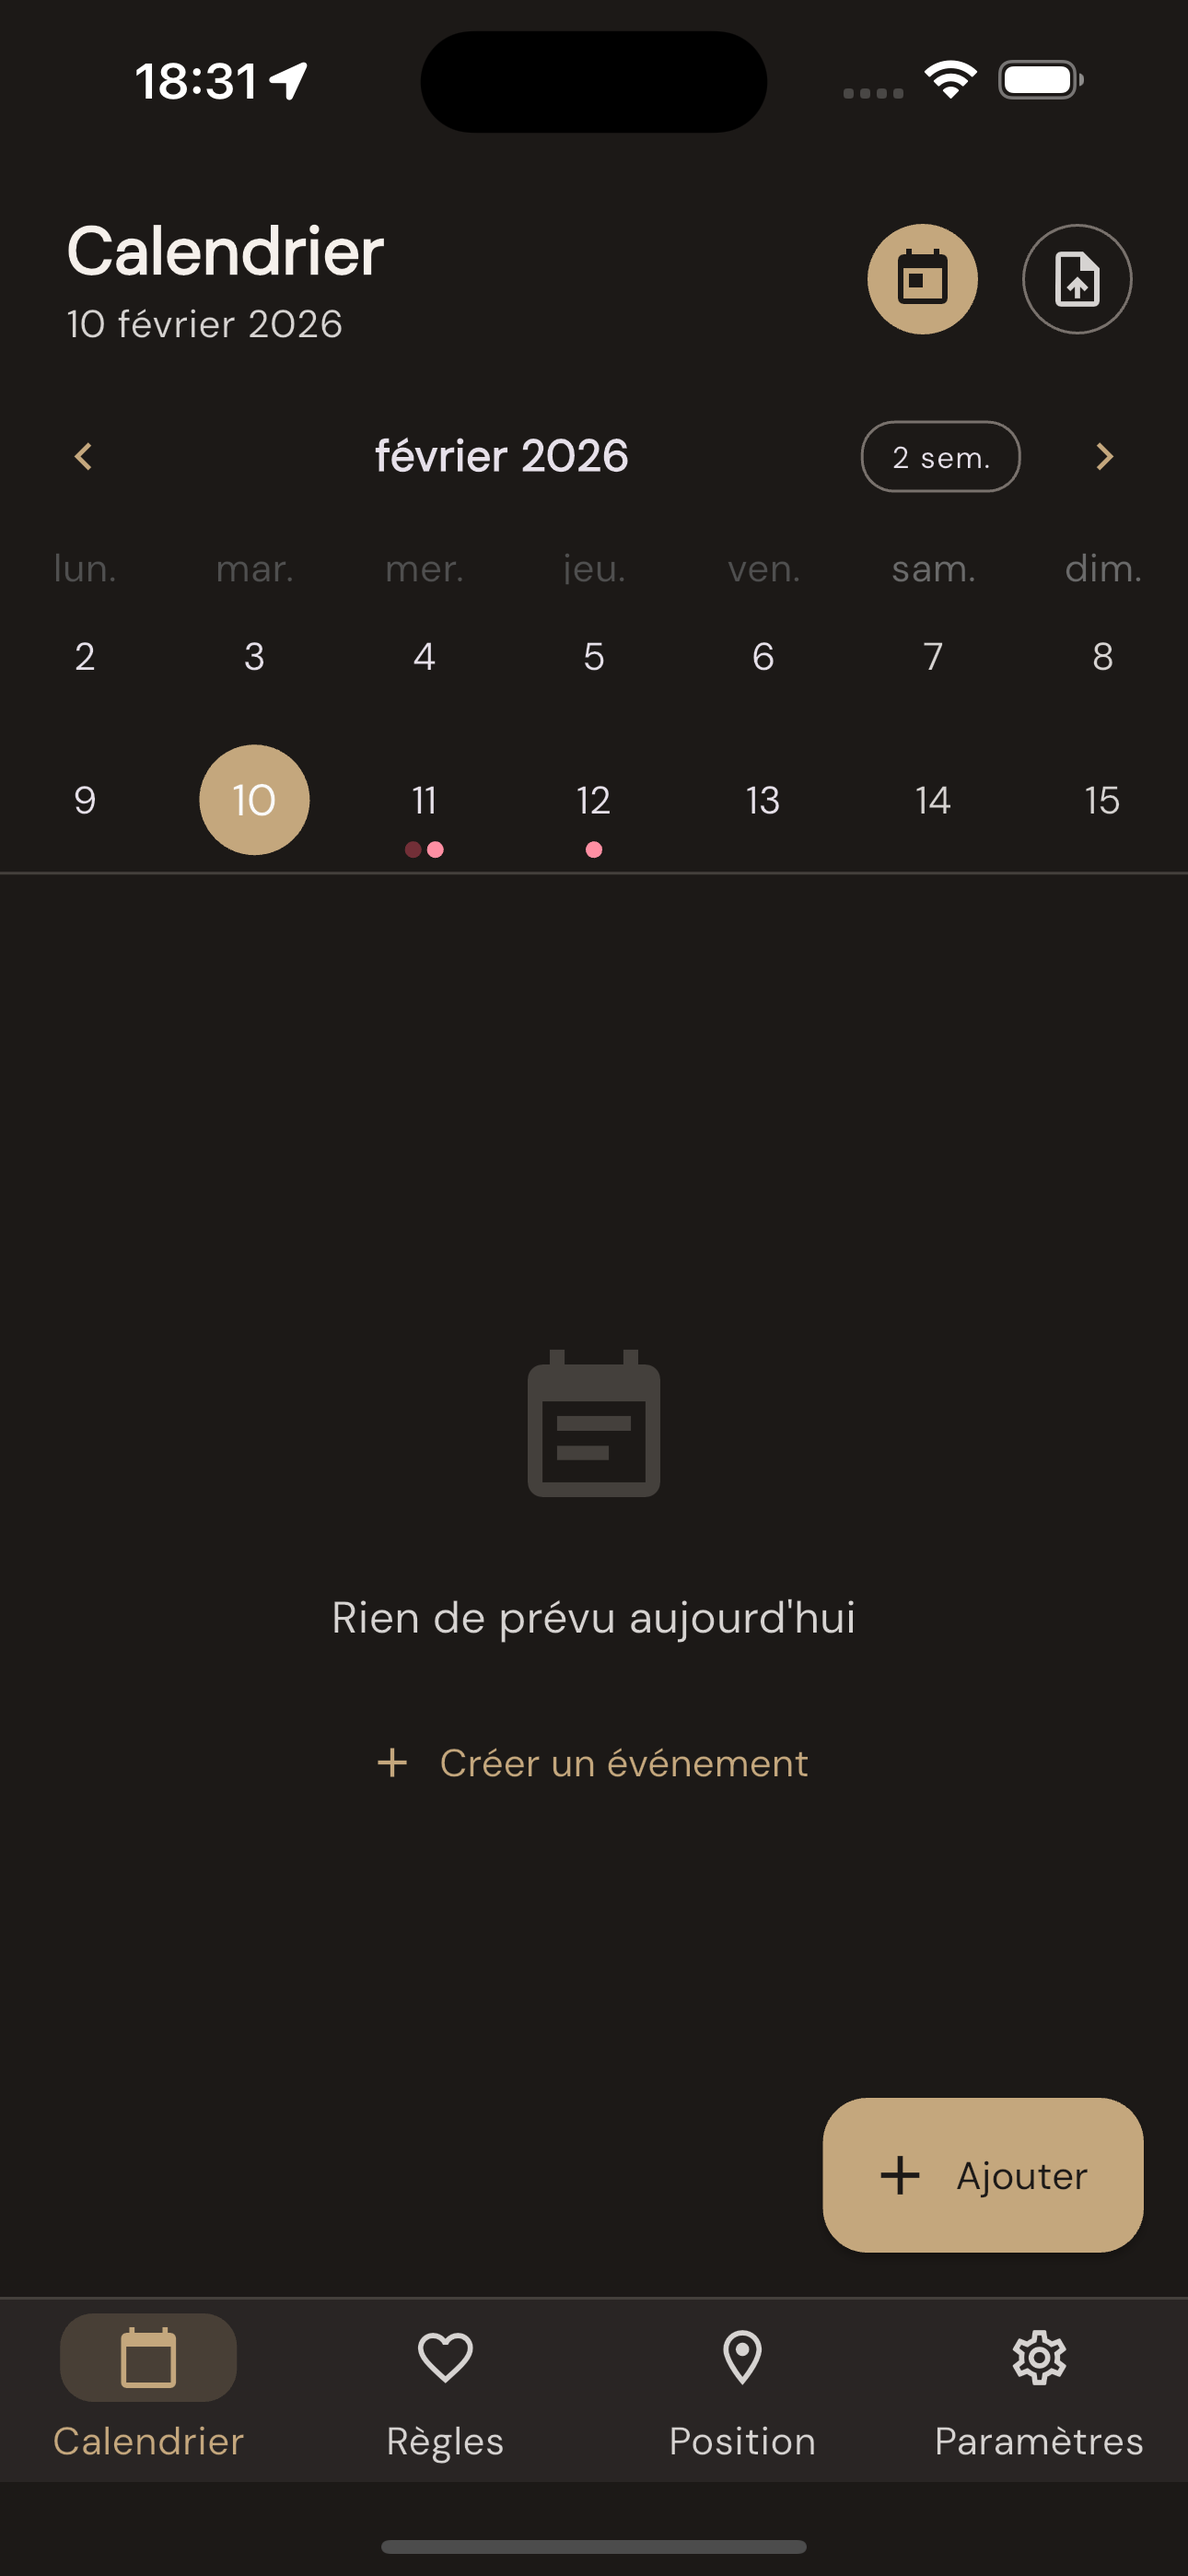
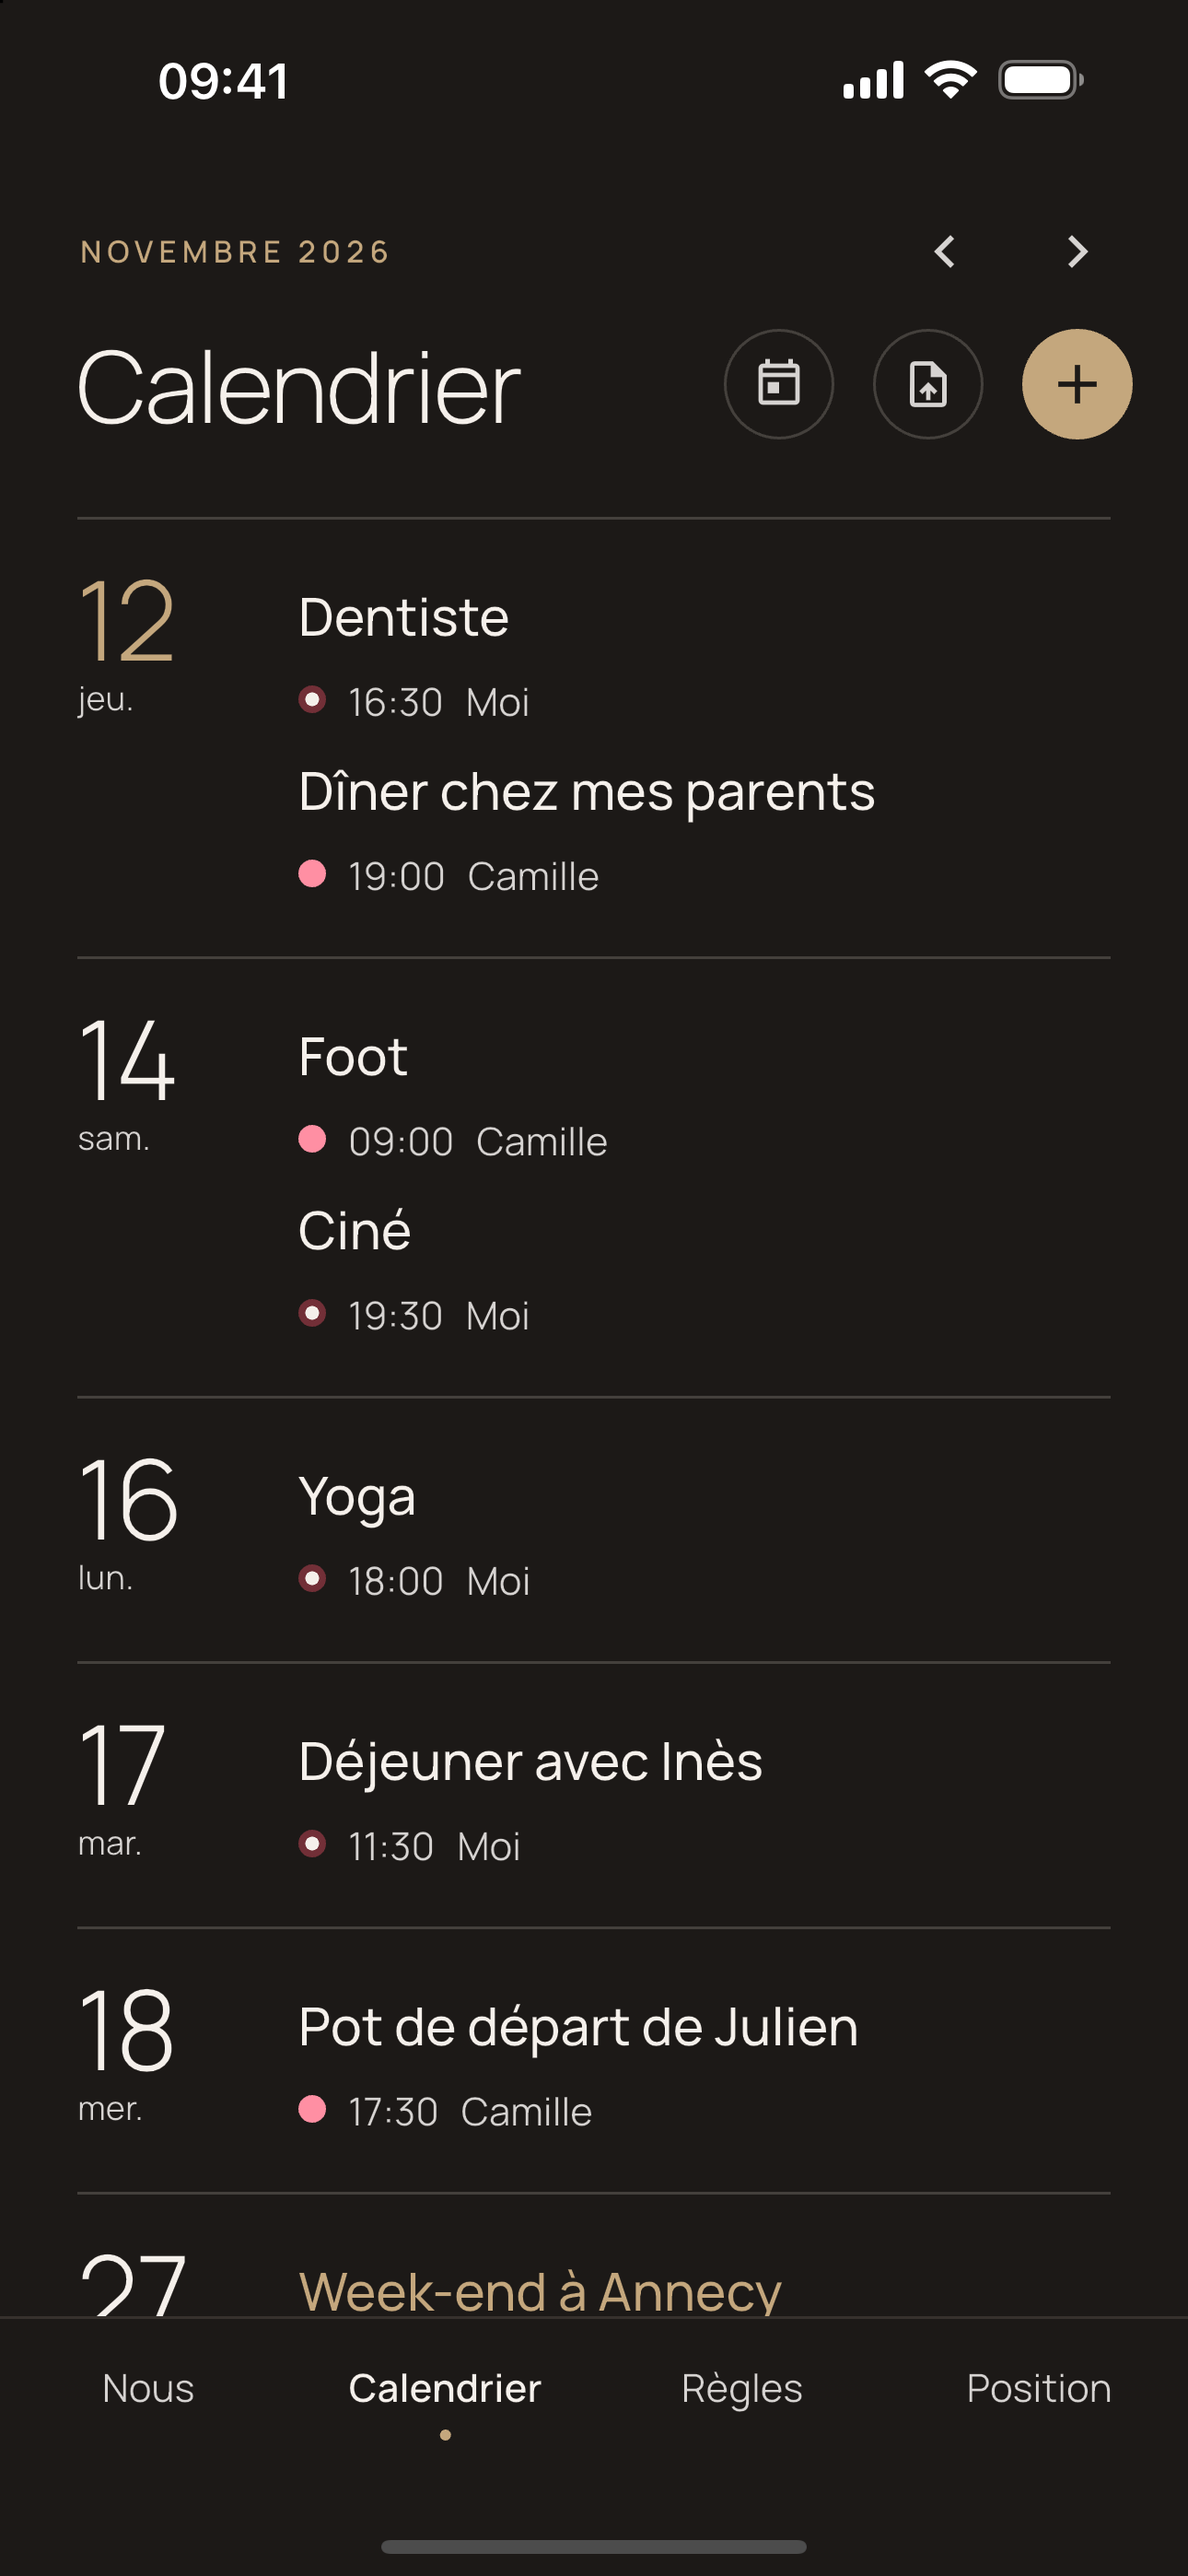
feat(site): new app screenshots from the redesigned app
Eight simulator captures of an invented couple (Alex and Camille, in
Lyon), taken on the local copy of the backend: shared calendar, each
person's calendar for the merge section, cycle, position, Nous tab, a
received note and a shared list. They replace the February captures of
the old design.

- Each rail item now shows its own screen (notes and lists showed
  Settings and the guide).
- The merge section shows both calendars before they merge; the
  partner-phone description says so in FR and EN.
- The portfolio video page points at the new files.
- The screenshots README lists what each file shows and where it's used.

diff --git a/website/components/home/MergeChapter.tsx b/website/components/home/MergeChapter.tsx
@@ -31,13 +31,13 @@ export default function MergeChapter({ dict }: { dict: Merge }) {
         </h2>
         <div className="nd-merge__phones">
           <div className="nd-merge__phone nd-merge__phone--left">
-            <PhoneFrame src="/screenshots/calendar.png" alt={dict.leftAlt} />
+            <PhoneFrame src="/screenshots/merge-me.png" alt={dict.leftAlt} />
             <span className="nd-merge__who" aria-hidden="true">
               {dict.labelMe}
             </span>
           </div>
           <div className="nd-merge__phone nd-merge__phone--right">
-            <PhoneFrame src="/screenshots/screenshot_3.png" alt={dict.rightAlt} />
+            <PhoneFrame src="/screenshots/merge-partner.png" alt={dict.rightAlt} />
             <span className="nd-merge__who" aria-hidden="true">
               {dict.labelYou}
             </span>

diff --git a/website/components/home/ShareRail.tsx b/website/components/home/ShareRail.tsx
@@ -3,15 +3,15 @@ import PhoneFrame from "./PhoneFrame";
 
 type Share = Dictionary["home"]["chapters"]["share"];
 
-// Which real screen illustrates each item. New features reuse the closest
-// existing screen until fresh simulator captures replace them.
+// Which real screen illustrates each item: simulator captures of an invented
+// couple (Alex and Camille), taken on a local copy of the backend.
 const SCREENS: Record<string, string> = {
   calendar: "/screenshots/calendar.png",
-  cycle: "/screenshots/period.png",
+  cycle: "/screenshots/cycle.png",
   position: "/screenshots/position.png",
-  together: "/screenshots/calendar.png",
-  pings: "/screenshots/screenshot_5.png",
-  lists: "/screenshots/screenshot_3.png",
+  together: "/screenshots/nous.png",
+  pings: "/screenshots/ping.png",
+  lists: "/screenshots/lists.png",
 };
 
 /**

diff --git a/website/portfolio-hover/comp.html b/website/portfolio-hover/comp.html
@@ -28,8 +28,8 @@
   <div class="glow" id="glow"></div>
   <div class="phone" id="phone">
     <img class="app" src="../public/screenshots/calendar.png" />
-    <img class="app" src="../public/screenshots/period.png" />
-    <img class="app" src="../public/screenshots/screenshot_3.png" />
+    <img class="app" src="../public/screenshots/cycle.png" />
+    <img class="app" src="../public/screenshots/nous.png" />
     <img class="app" src="../public/screenshots/position.png" />
   </div>
   <div class="layer" id="homeEnd"><img class="shot" id="homeEndImg" src="captures/home.png" /></div>

diff --git a/website/public/screenshots/README.md b/website/public/screenshots/README.md
@@ -1,9 +1,16 @@
-# Screenshots pour la page d'accueil
+# Captures de l'app
 
-Ajoutez ici les images référencées par la section Fonctionnalités :
+Captures réelles de l'app (iPhone 16 Plus, 1290×2796, app en français), utilisées par la page d'accueil et par `portfolio-hover/`.
 
-- `calendar.png` — Aperçu du calendrier partagé (ratio 9:16 recommandé, ex. 360×640)
-- `period.png` — Aperçu du suivi des règles
-- `position.png` — Aperçu du partage de position
+| Fichier | Écran | Utilisé par |
+| --- | --- | --- |
+| `calendar.png` | Calendrier partagé, événements des deux | Deux agendas, Un seul espace (fusion), Ce que vous partagez |
+| `merge-me.png` | Calendrier avec les seuls événements d'Alex | Un seul espace (téléphone « Moi ») |
+| `merge-partner.png` | Calendrier de Camille, ses seuls événements | Un seul espace (téléphone « Toi ») |
+| `cycle.png` | Règles, vue du jour | Ce que vous partagez › Cycle |
+| `position.png` | Carte avec les deux positions | Ce que vous partagez › Position |
+| `nous.png` | Onglet Nous (jours ensemble, rendez-vous, listes) | Ce que vous partagez › Vos jours |
+| `ping.png` | Petit mot reçu | Ce que vous partagez › Petits mots |
+| `lists.png` | Liste de courses partagée | Ce que vous partagez › Listes |
 
-En l'absence de ces fichiers, un placeholder « Aperçu » est affiché.
+Le couple (Alex et Camille), les lieux et les événements sont inventés. Les captures sont faites sur la copie locale du backend (pile Docker de répétition), jamais sur `api.nous-deux.app`, avec la barre d'état fixée à 9:41 (`xcrun simctl status_bar … override`).
